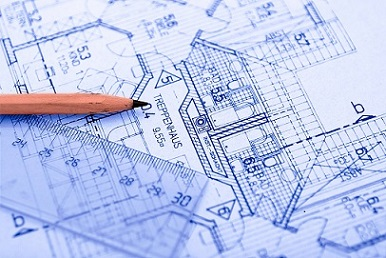
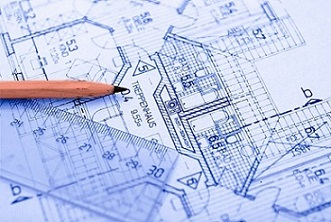
added some colors

diff --git a/css/override.css b/css/override.css
@@ -1,9 +1,21 @@
 
 .in-col {
-	width: 100%
-	background-color: #fc998b;
+	width: 80%
+	background-color: rgb(252, 153, 139);
+	
 	box-shadow: 5px 5px 18px 0 rgba(0, 0, 0, 0.6);
 	border-image-width: 90%;
+}
+
+.col-4{
+	
+	
+}
+
+.link-space {
+	padding-bottom: 2%;
+	padding-left: 4%;
+	background-color: rgb(252, 153, 139);
 }
 
 img {
@@ -11,6 +23,7 @@ img {
    	max-width: 100%;
     height: auto;
     margin: auto;
+    background-color: rgb(252, 153, 139);
 }
 
 
@@ -21,7 +34,11 @@ h1 {
 }
 
 h2 {
-	
+	padding-top: 2%;
+	padding-bottom: 1%;
+	padding-left: 2%;
+	padding-right: 1%;
+	background-color: rgb(252, 153, 139);
 }
 
 body {
@@ -29,3 +46,10 @@ body {
 	margin-left: 1%;
 	margin-right: 1%;
 }
+
+article {
+	background-color: rgb(252, 153, 139);
+}
+
+
+

diff --git a/index.php b/index.php
@@ -28,61 +28,80 @@
 		<div class="container-fluid">
 			<section>
 				<div class="row">
+
 					<div class="col-4">
 						<div class="in-col">
 							<h2>Adam Struhl - Information Architect</h2>
+							<div class="row justify-content-center">
+								
+									<a href="astruhl.php">
+										<figure>
+											<img src="images/architect.jpg" alt="Adam Struhl">
+										</figure>
+									</a>
+								
+							</div>
+							<div class="link-space">
+								<a href="astruhl.php"> Read more...</a>
+							</div>
 						</div>
 					</div>
+
 					<div class="col-4">
 						<div class="in-col">
 							<h2>Anthony Russell - Design Artist</h2>
+							<div class="row justify-content-center">
+								
+									<a href="anthony.php">
+										<figure>
+											<img src="images/design.png" alt="Anthony Russell">
+										</figure>
+									</a>
+								
+							</div>
+							<div class="link-space">
+								<a href="anthony.php">Read more...</a>
+							</div>
 						</div>
 					</div>
+
 					<div class="col-4">
 						<div class="in-col">
 							<h2>Yingju Chen - Code Monkey</h2>
+							<div class="row justify-content-center">
+								
+									<a href="lulu.php">
+										<figure>
+											<img src="images/monkey.jpg" alt="Yinju Chen">
+										</figure>
+									</a>
+								
+							</div>
+							<div class="link-space">
+								<a href="lulu.php"> Read more... </a>
+							</div>
+						</div>
 					</div>
-				</div>
+<!--
 				<div class="row">
 					<div class="col-4">
 						<div class="in-col">
-							<article>
-								<a href="astruhl.php">
-									<figure>
-									<img src="images/architect.jpg" alt="Adam Struhl">
-									</figure>
-								</a>
-								<a href="astruhl.php"> Read more...</a>
-							</article>
+							
 						</div>	
 					</div>
 
 					<div class="col-4">
 						<div class="in-col">
-							<article>
-									<a href="anthony.php">
-									<figure>
-									<img src="images/design.png" alt="Anthony Russell">
-									</figure>
-									</a>
-								<a href="anthony.php">Read more...</a>
-							</article>
+							
 						</div>	
 					</div>
 
 					<div class="col-4">
 						<div class="in-col">
-							<article>
-									<a href="lulu.php">
-									<figure>
-									<img src="images/monkey.jpg" alt="Yinju Chen">
-									</figure>
-									</a>
-								<a href="lulu.php"> Read more... </a>
-							</article>
+							
 						</div>	
 					</div>
-
+-->
 				</div>
 			</section>
 		</div>	
